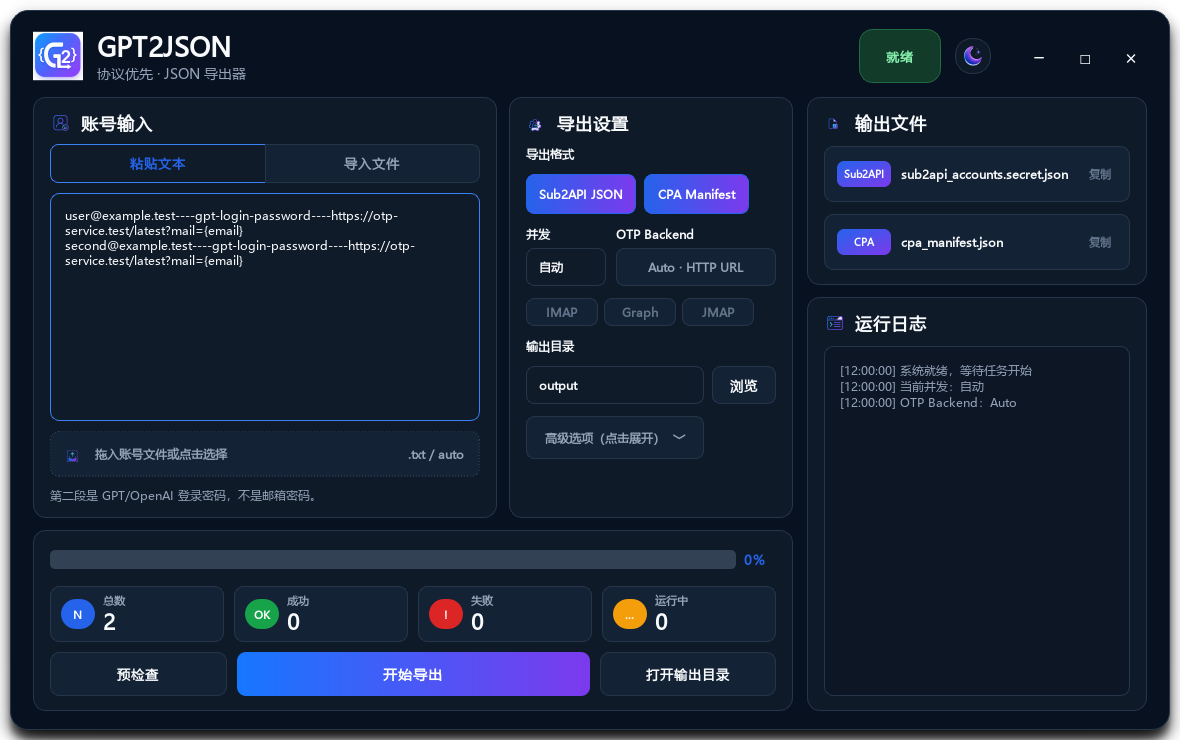
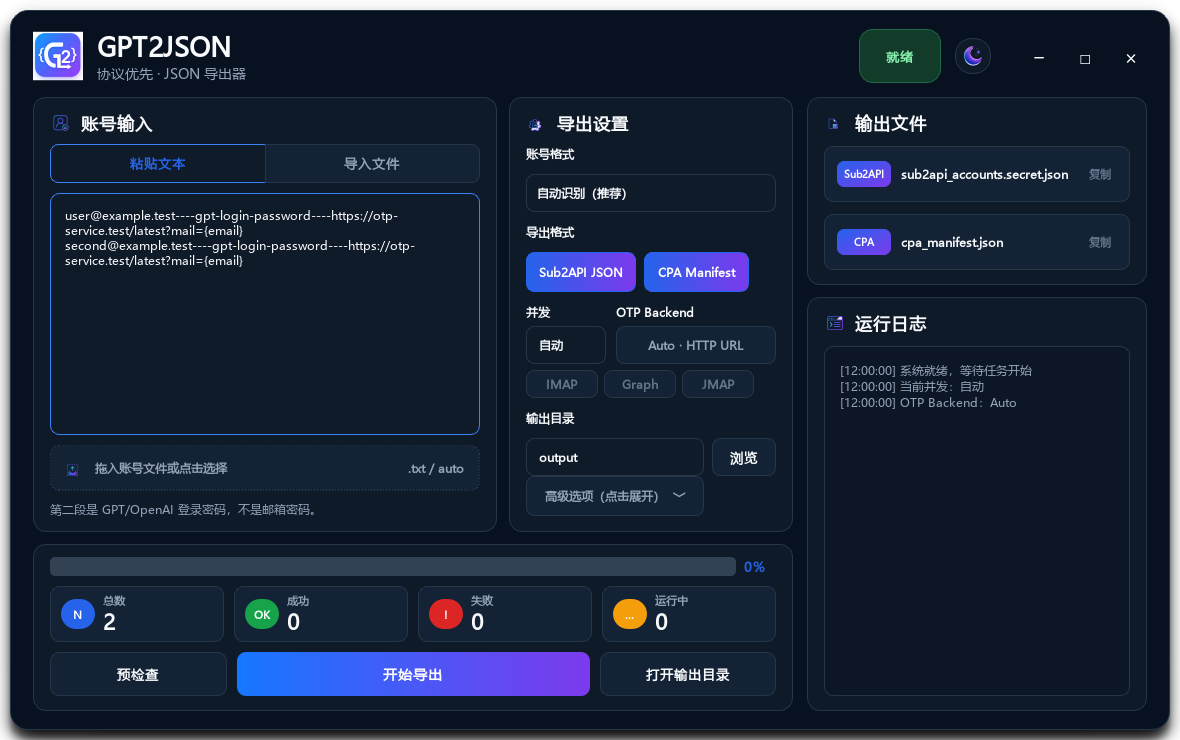
Make input formats registry-driven

Changed region(s): [[0.0305, 0.5595, 0.6712, 0.777], [0.4271, 0.1865, 0.6407, 0.6838], [0.6102, 0.5905, 0.6407, 0.6527]]

diff --git a/gpt2json/gui.py b/gpt2json/gui.py
@@ -10,6 +10,7 @@ from PySide6.QtCore import QSize
 from PySide6.QtGui import QDesktopServices, QFont, QFontDatabase, QIcon, QPixmap
 from PySide6.QtWidgets import (
     QApplication,
+    QComboBox,
     QFileDialog,
     QFrame,
     QGraphicsDropShadowEffect,
@@ -29,7 +30,7 @@ from PySide6.QtWidgets import (
 )
 
 from .engine import ExportConfig, run_export
-from .parsing import parse_by_format, read_account_file
+from .parsing import list_input_formats, parse_by_format, read_account_file
 
 APP_NAME = "GPT2JSON"
 APP_SUBTITLE = "协议优先 · JSON 导出器"
@@ -270,6 +271,13 @@ class FileOutputRow(QFrame):
             QApplication.clipboard().setText(self.path)
 
 
+class FormatCombo(QComboBox):
+    def __init__(self) -> None:
+        super().__init__()
+        self.setObjectName("FormatCombo")
+        self.setFixedHeight(38)
+
+
 class MainWindow(QMainWindow):
     def __init__(self) -> None:
         super().__init__()
@@ -406,7 +414,7 @@ class MainWindow(QMainWindow):
 
         self.paste_edit = QPlainTextEdit()
         self.paste_edit.setObjectName("PasteBox")
-        self.paste_edit.setPlaceholderText("1  GPT邮箱----GPT密码----OTP取码源\n2  每行一个账号，粘贴内容优先于文件\n3")
+        self.paste_edit.setPlaceholderText("自动识别账号格式\n当前支持：GPT邮箱----GPT密码----OTP取码源\n每行一个账号，粘贴内容优先于文件。")
         self.paste_edit.textChanged.connect(self._on_paste_changed)
         layout.addWidget(self.paste_edit, 1)
 
@@ -426,6 +434,14 @@ class MainWindow(QMainWindow):
         layout.setContentsMargins(16, 14, 16, 14)
         layout.setSpacing(12)
         layout.addWidget(SectionHeader(UI_SETTINGS_PATH, "导出设置"))
+
+        layout.addWidget(self._field_label("账号格式"))
+        self.input_format_combo = FormatCombo()
+        self.input_format_combo.addItem("自动识别（推荐）", "auto")
+        for fmt in list_input_formats():
+            self.input_format_combo.addItem(fmt.label, fmt.id)
+        self.input_format_combo.currentIndexChanged.connect(self._on_input_format_changed)
+        layout.addWidget(self.input_format_combo)
 
         layout.addWidget(self._field_label("导出格式"))
         format_row = QHBoxLayout()
@@ -651,8 +667,10 @@ class MainWindow(QMainWindow):
             #FileDropBox {{ min-height:44px; max-height:44px; border-radius:9px; background:{p['soft']}; border:1px dashed {p['border2']}; }}
             #FileDropBox:hover {{ border-color:#3B82F6; }}
             #DropIcon, #DropText, #DropSuffix {{ color:{p['muted']}; font-size:12px; font-weight:800; }}
-            QLineEdit, QSpinBox {{ min-height:36px; border-radius:8px; padding-left:10px; padding-right:8px; color:{p['text']}; background:{p['input']}; border:1px solid {p['border']}; font-size:12px; font-weight:700; }}
-            QLineEdit:focus, QSpinBox:focus {{ border:1px solid #60A5FA; }}
+            QLineEdit, QSpinBox, QComboBox {{ min-height:36px; border-radius:8px; padding-left:10px; padding-right:8px; color:{p['text']}; background:{p['input']}; border:1px solid {p['border']}; font-size:12px; font-weight:700; }}
+            QLineEdit:focus, QSpinBox:focus, QComboBox:focus {{ border:1px solid #60A5FA; }}
+            QComboBox::drop-down {{ width:24px; border:none; background:transparent; }}
+            QComboBox QAbstractItemView {{ color:{p['text']}; background:{p['card']}; border:1px solid {p['border']}; selection-background-color:#2563EB; selection-color:white; }}
             QSpinBox::up-button, QSpinBox::down-button {{ width:20px; border:none; background:transparent; }}
             #BrowseButton {{ min-height:36px; min-width:62px; border-radius:8px; color:{p['text']}; background:{p['soft']}; border:1px solid {p['border']}; font-weight:800; }}
             #BrowseButton:hover, #AdvancedBar:hover, #SecondaryButton:hover {{ border-color:#3B82F6; color:#2563EB; }}
@@ -710,6 +728,17 @@ class MainWindow(QMainWindow):
         if self._paste_text():
             self.paste_tab.setChecked(True)
             self.file_tab.setChecked(False)
+        self.preflight(silent=True)
+
+    def _on_input_format_changed(self) -> None:
+        format_id = self._input_format()
+        if format_id == "auto":
+            self.paste_edit.setPlaceholderText("自动识别账号格式\n当前支持：GPT邮箱----GPT密码----OTP取码源\n每行一个账号，粘贴内容优先于文件。")
+        else:
+            for fmt in list_input_formats():
+                if fmt.id == format_id:
+                    self.paste_edit.setPlaceholderText(fmt.placeholder or fmt.description or fmt.label)
+                    break
         self.preflight(silent=True)
 
     def _toggle_max_restore(self) -> None:
@@ -774,6 +803,17 @@ class MainWindow(QMainWindow):
     def _input_path(self) -> str:
         return self.file_drop.path.strip()
 
+    def _input_format(self) -> str:
+        if not hasattr(self, "input_format_combo"):
+            return "auto"
+        value = self.input_format_combo.currentData()
+        return str(value or "auto")
+
+    def _input_format_label(self) -> str:
+        if not hasattr(self, "input_format_combo"):
+            return "自动识别"
+        return str(self.input_format_combo.currentText() or "自动识别")
+
     def _selected_output_labels(self) -> str:
         labels: list[str] = []
         if self.sub2api_check.isChecked():
@@ -784,13 +824,14 @@ class MainWindow(QMainWindow):
 
     def _preview_rows(self) -> tuple[bool, int]:
         paste_text = self._paste_text()
+        input_format = self._input_format()
         if paste_text:
-            rows = parse_by_format(paste_text.splitlines(), format_id="auto")
+            rows = parse_by_format(paste_text.splitlines(), format_id=input_format)
             return True, len(rows)
         input_path = Path(self._input_path())
         if not input_path.exists() or not input_path.is_file():
             return False, 0
-        rows = read_account_file(input_path)
+        rows = read_account_file(input_path, format_id=input_format)
         return True, len(rows)
 
     def preflight(self, silent: bool = False) -> bool:
@@ -813,8 +854,9 @@ class MainWindow(QMainWindow):
         self._update_progress()
         if not silent:
             outputs = self._selected_output_labels() or "未选择"
-            self.append_log(f"[预检查] 有效行数: {self._total} | 格式=auto | 输出: {outputs}")
-            QMessageBox.information(self, "预检查完成", f"有效行数：{self._total}\n格式：自动识别\n输出：{outputs}")
+            input_format_label = self._input_format_label()
+            self.append_log(f"[预检查] 有效行数: {self._total} | 输入格式={input_format_label} | 输出: {outputs}")
+            QMessageBox.information(self, "预检查完成", f"有效行数：{self._total}\n输入格式：{input_format_label}\n输出：{outputs}")
         return bool(row_count)
 
     def start_run(self) -> None:
@@ -858,7 +900,7 @@ class MainWindow(QMainWindow):
             otp_timeout=int(self.otp_timeout_spin.value()),
             otp_interval=int(self.otp_interval_spin.value()),
             timeout=int(self.timeout_spin.value()),
-            input_format="auto",
+            input_format=self._input_format(),
         )
 
         def worker() -> None:

diff --git a/gpt2json/cli.py b/gpt2json/cli.py
@@ -7,10 +7,12 @@ from pathlib import Path
 
 from . import __version__
 from .engine import ExportConfig, run_export
+from .parsing import list_input_formats
 
 
 def build_parser() -> argparse.ArgumentParser:
     parser = argparse.ArgumentParser(description="GPT2JSON：协议优先的 Sub2API / CPA JSON 导出工具。")
+    supported_formats = ", ".join(["auto", *(fmt.id for fmt in list_input_formats())])
     parser.add_argument("--version", action="version", version=f"GPT2JSON {__version__}")
     parser.add_argument("--input", help="账号文本文件：GPT邮箱----GPT密码----OTP取码源")
     parser.add_argument("--stdin", action="store_true", help="从标准输入读取账号文本；优先级高于 --input")
@@ -20,7 +22,7 @@ def build_parser() -> argparse.ArgumentParser:
     parser.add_argument("--token-type", default="plus", help="高级：写入 token type 字段")
     parser.add_argument("--sub2api", action=argparse.BooleanOptionalAction, default=True, help="是否导出 Sub2API JSON")
     parser.add_argument("--cpa", action=argparse.BooleanOptionalAction, default=True, help="是否导出 CPA JSON")
-    parser.add_argument("--input-format", default="auto", help="输入格式：auto 或 dash_otp")
+    parser.add_argument("--input-format", default="auto", help=f"输入格式：{supported_formats}")
     parser.add_argument("--otp-mode", default="auto", choices=["auto", "command", "none"], help="OTP 模式")
     parser.add_argument("--otp-command", default="", help="外部取码命令模板")
     parser.add_argument("--otp-timeout", type=int, default=180, help="OTP 等待超时秒数")

diff --git a/gpt2json/parsing.py b/gpt2json/parsing.py
@@ -29,6 +29,8 @@ class InputFormat:
     id: str
     label: str
     parser: Callable[[Iterable[str]], list[AccountRow]]
+    description: str = ""
+    placeholder: str = ""
 
 
 def normalize_email(value: Any) -> str:
@@ -155,8 +157,10 @@ def parse_account_lines(lines: Iterable[str]) -> list[AccountRow]:
 INPUT_FORMATS: dict[str, InputFormat] = {
     "dash_otp": InputFormat(
         id="dash_otp",
-        label="gpt-email----gpt-password----otp-source",
+        label="LDXP Plus7 / 三段式 OTP",
         parser=parse_dash_otp_lines,
+        description="LDXP Plus7 当前交付格式：GPT邮箱----GPT密码----OTP取码源；第二段是 GPT/OpenAI 登录密码。",
+        placeholder="GPT邮箱----GPT密码----OTP取码源\n每行一个账号，粘贴内容优先于文件。",
     ),
 }
 

diff --git a/tests/test_parsing.py b/tests/test_parsing.py
@@ -25,7 +25,9 @@ def test_parse_account_lines_dedupes_and_normalizes():
 
 
 def test_input_format_registry_supports_auto_and_errors():
-    assert any(fmt.id == "dash_otp" for fmt in list_input_formats())
+    dash_format = next(fmt for fmt in list_input_formats() if fmt.id == "dash_otp")
+    assert "LDXP" in dash_format.label
+    assert dash_format.placeholder
     rows = parse_by_format(["user@example.com----pass----https://mail.local/code"], format_id="auto")
     assert len(rows) == 1
     with pytest.raises(ValueError):

diff --git a/README.md b/README.md
@@ -23,9 +23,11 @@ GPT2JSON 是一个小型独立工具，用于把账号文本批量处理成 **Su
 
 它只负责生成本地 JSON 文件，不会直接连接或写入 Sub2API 后台，适合先批量生成、检查后再手动导入。
 
-## 当前支持的账号格式
+## 输入格式
 
-当前版本优先适配 **LDXP Plus7** 的账号格式：
+GPT2JSON 的输入解析是注册表驱动的，桌面版和 CLI 都保留了 `自动识别` / `--input-format` 入口，后续可以继续增加其它来源的账号格式。
+
+当前版本内置并优先适配 **LDXP Plus7** 的账号格式：
 
 > 账号来源：<https://pay.ldxp.cn/shop/plus7>
 
@@ -49,7 +51,7 @@ user@example.test----example-gpt-password----https://otp-service.test/latest?mai
 | `GPT密码` | GPT/OpenAI 登录密码，不是邮箱密码。 |
 | `OTP取码源` | 免登录验证码 URL、取码邮箱或其它取码源。 |
 
-其它来源 / 其它邮箱凭据格式后续再适配；当前请先整理成上面的三段格式。
+其它来源 / 其它邮箱凭据格式后续会作为新的 input format 接入；当前暂时请先选择 `自动识别`，或整理成上面的三段格式。
 
 ## 主要功能
 
@@ -69,11 +71,12 @@ gpt2json-gui
 
 使用流程：
 
-1. 粘贴账号文本，或导入账号文件；
-2. 选择输出目录；
-3. 勾选导出格式：`Sub2API JSON`、`CPA Manifest`；
-4. 并发保持 `自动` 即可，必要时再手动调整；
-5. 点击 `开始导出`。
+1. 选择账号格式：默认 `自动识别`；
+2. 粘贴账号文本，或导入账号文件；
+3. 选择输出目录；
+4. 勾选导出格式：`Sub2API JSON`、`CPA Manifest`；
+5. 并发保持 `自动` 即可，必要时再手动调整；
+6. 点击 `开始导出`。
 
 <p align="center">
   <img src="docs/assets/gui-zh-preview.png" alt="GPT2JSON 浅色界面预览" width="80%">

diff --git a/CHANGELOG.md b/CHANGELOG.md
@@ -11,6 +11,7 @@
 - Sub2API / CPA JSON 导出。
 - PySide6 轻量桌面 GUI。
 - GUI 支持账号文件或直接粘贴文本输入，导出格式可单选或多选。
+- GUI 支持账号格式选择，当前默认自动识别，后续格式由 parser 注册表扩展。
 - 并发数默认自动，CLI 支持 `--stdin` 管道输入。
 - 输入格式 parser 注册表与 auto-detect 入口。
 - Backend-first 邮箱 OTP 注册表骨架，围绕 IMAP / Graph / JMAP / POP3 / API 扩展。

diff --git a/docs/input-formats.md b/docs/input-formats.md
@@ -31,6 +31,8 @@ AccountRow(
 
 ## 当前内置格式
 
+当前内置格式注册为 `dash_otp`，桌面端显示为 `LDXP Plus7 / 三段式 OTP`。用户侧默认可以保持 `auto`，由 parser 注册表自动匹配。
+
 ```text
 GPT邮箱----GPT密码----OTP取码源
 ```
